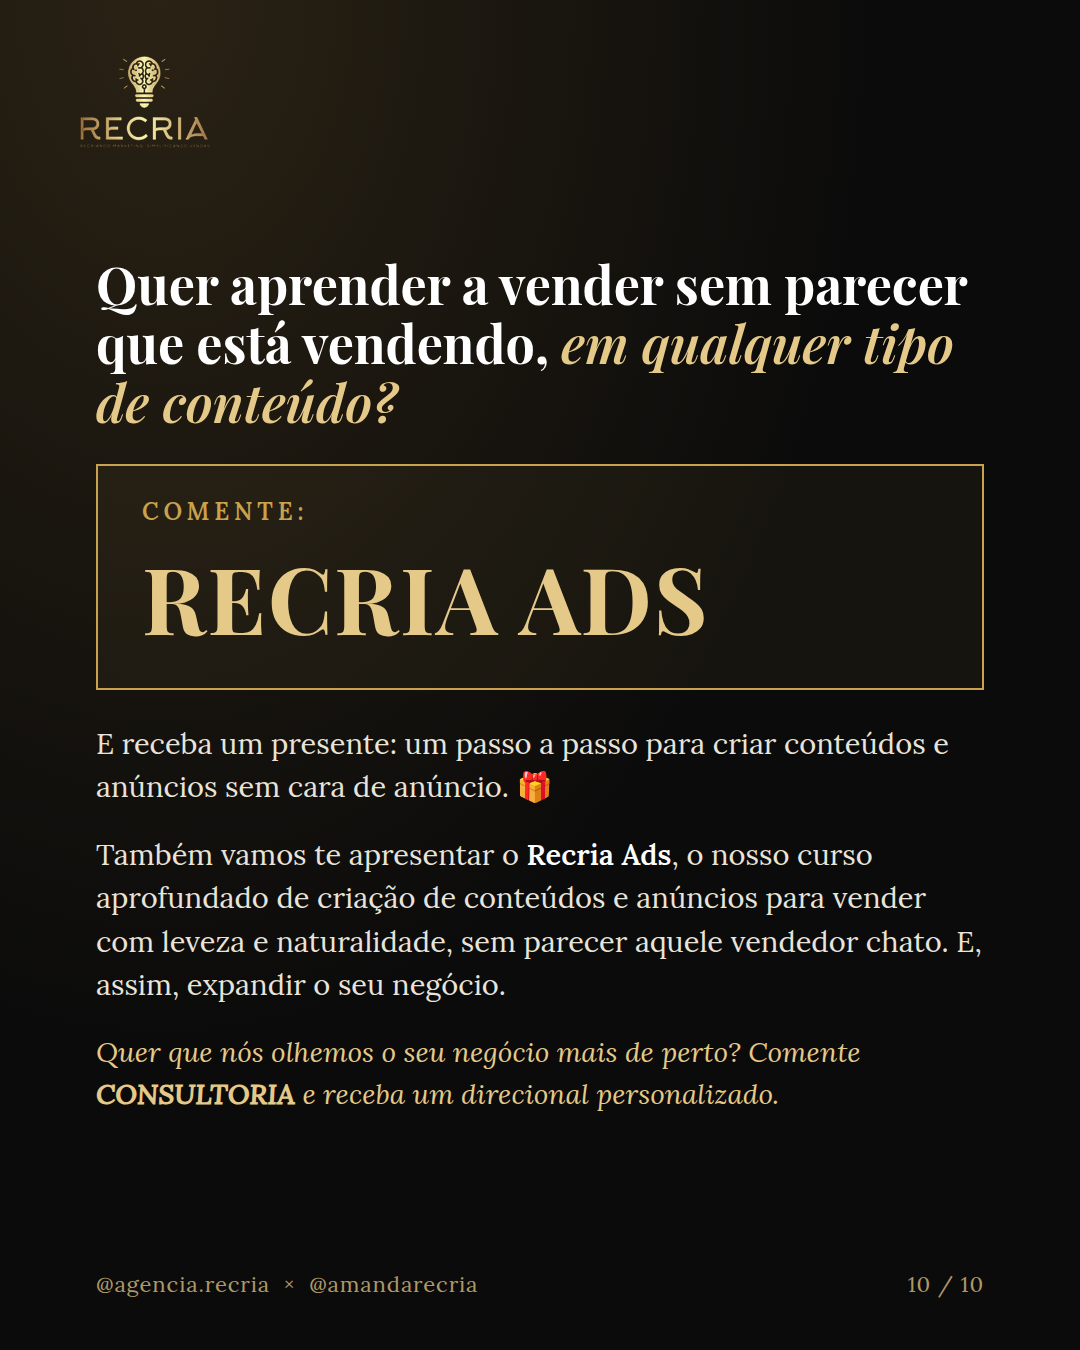
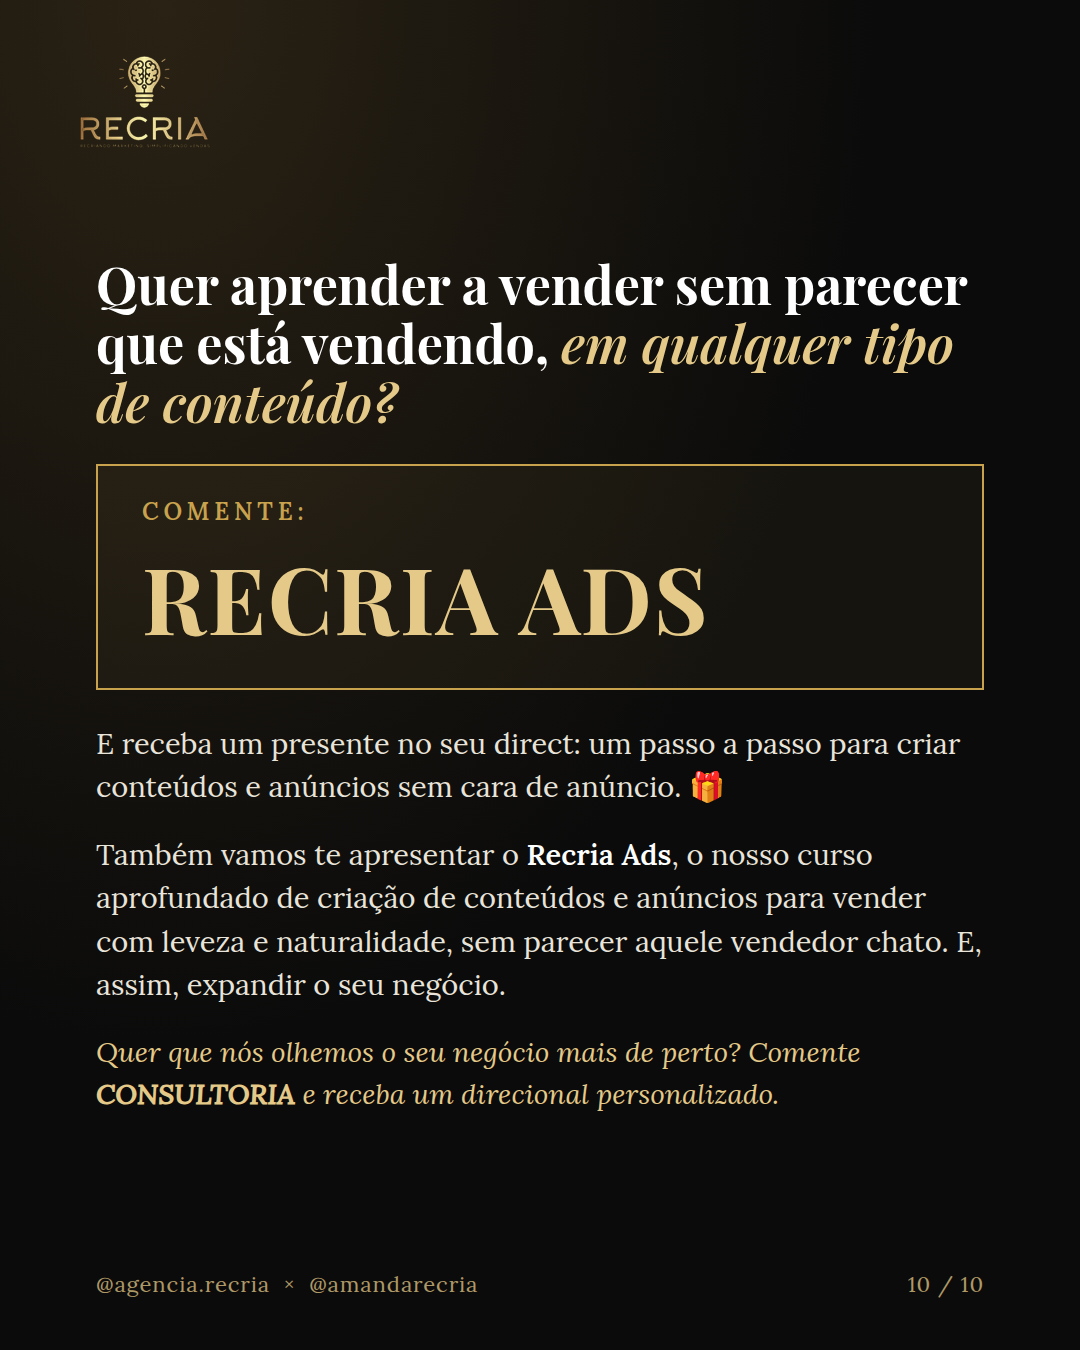
Carrossel 14/10: card 10 menciona presente no direct
Claude-Session: https://claude.ai/code/session_01RDM8d5cVD9w4uwiMSyLkgt

Changed region(s): [[0.0917, 0.5289, 0.8861, 0.5911]]

diff --git a/agencia-recria/copies/carrosseis-outubro-2026.md b/agencia-recria/copies/carrosseis-outubro-2026.md
@@ -107,7 +107,7 @@ Explicamos tudo no direct. E ainda enviamos um presente. 🎁
 7. **3. Storytelling, como num episódio de série.** O vídeo já começa com um comentário de seguidores: "Essa promessa é clássica, tô esperando o meu até hoje." O que gera identificação logo de cara. É como um episódio 2, pedido pelo público, como numa novela ou numa série. E a neurociência explica por que isso prende: o cérebro humano busca fechamento. Tudo precisa ter começo, meio e fim. Quando uma história começa e desperta interesse, a mente só sossega quando sabe como ela termina. / *Foi esse o gancho que segurou a pessoa até o meio do vídeo, exatamente onde entra a Toyota.*
 8. **4. Público certo, oferta certa.** A Sarah fala com empreendedores. A condição é para compra com CNPJ. E o bordão "tô de carro novo" já nasce pronto para ser repetido.
 9. **E como você pode usar isso a favor do seu negócio?** Você não precisa contratar uma influenciadora como a Toyota, nem investir rios de dinheiro. Pode ser você mesmo, alguém da sua equipe ou um influenciador local, em troca de produto, visibilidade e uma remuneração que caiba no seu orçamento. Algumas ideias de ganchos iniciais: Restaurante ("Tudo começou num almoço de domingo na casa da minha avó…"), Loja de roupa ("Cheguei na festa e dei de cara com uma mulher usando o mesmo vestido que eu. Adivinha a minha reação…"), Clínica ("Nunca cuidei da pele. Até o dia em que vi uma foto minha que eu não esperava…"). / *A história prende. O produto entra como parte dela.*
-10. **CTA:** Quer aprender a vender sem parecer que está vendendo, em qualquer tipo de conteúdo? COMENTE: **RECRIA ADS**. E receba um presente: um passo a passo para criar conteúdos e anúncios sem cara de anúncio. 🎁 Também vamos te apresentar o Recria Ads, o nosso curso mais aprofundado: vender com leveza e naturalidade, sem parecer aquele vendedor chato. O próximo passo para o seu negócio. / Quer que nós olhemos o seu negócio mais de perto? Comente **CONSULTORIA** e receba um direcional personalizado.
+10. **CTA:** Quer aprender a vender sem parecer que está vendendo, em qualquer tipo de conteúdo? COMENTE: **RECRIA ADS**. E receba um presente no seu direct: um passo a passo para criar conteúdos e anúncios sem cara de anúncio. 🎁 Também vamos te apresentar o Recria Ads, o nosso curso mais aprofundado: vender com leveza e naturalidade, sem parecer aquele vendedor chato. O próximo passo para o seu negócio. / Quer que nós olhemos o seu negócio mais de perto? Comente **CONSULTORIA** e receba um direcional personalizado.
 
 ### Legenda
 > "Passou na faculdade, ganhou um carro." Quase todo pai prometeu. A minoria cumpriu. 🚗😂
